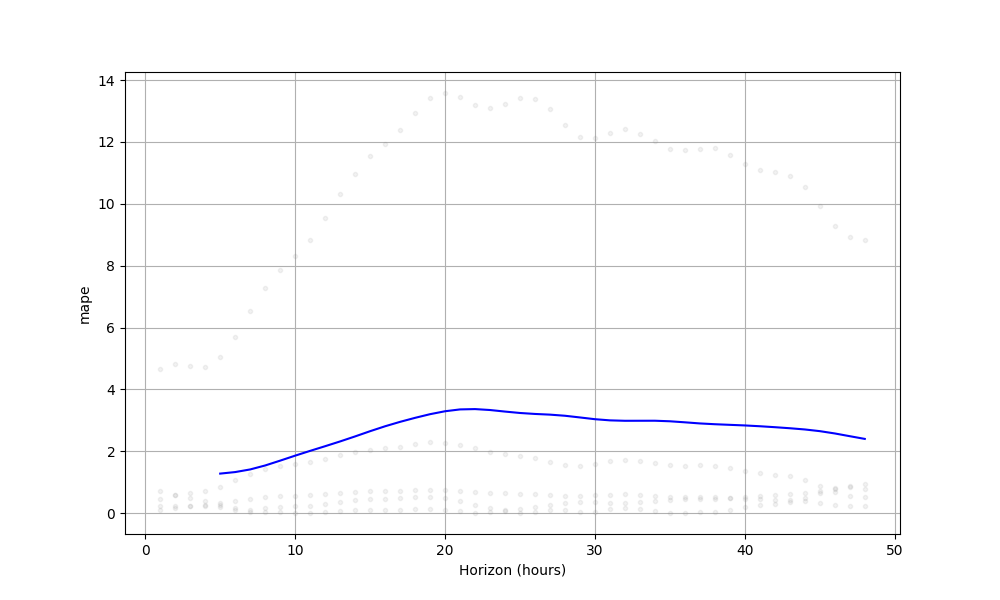
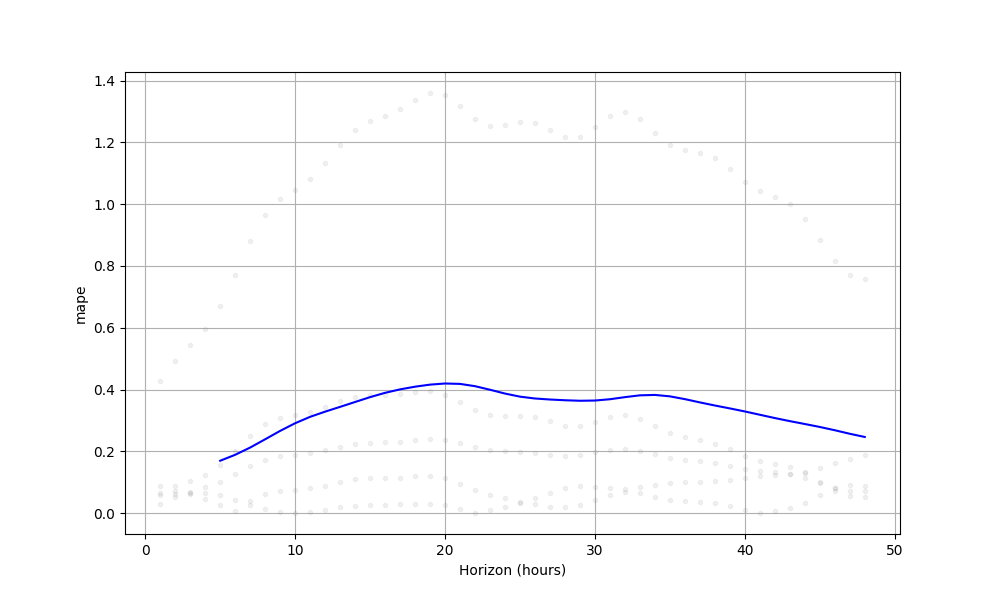
normalized values for prophet

diff --git a/prophet_analysis.py b/prophet_analysis.py
@@ -3,6 +3,7 @@ from prophet import Prophet
 from prophet.diagnostics import cross_validation, performance_metrics
 from prophet.plot import plot_cross_validation_metric
 from matplotlib import pyplot as plt
+from sklearn.preprocessing import MinMaxScaler
 import os
 
 df = pd.read_csv('SensorMLDataset_small.csv')  # input the path to the CSV file here
@@ -49,11 +50,18 @@ def predict(start=0, end=168, week=0, echo=True):
         ts = df_temp[start:end]
         ts.columns = ['ds', 'y']
 
+        # Normalize the target with minmax
+        scaler = MinMaxScaler()
+        ts['y'] = scaler.fit_transform(ts['y'].values.reshape(-1, 1)).flatten()
+
         model = Prophet()
         model.fit(ts)
 
         future = model.make_future_dataframe(periods=48, freq='H')
         forecast = model.predict(future)
+
+        # Inverse normalized predictions to get the original scale to then compare with the actual values
+        forecast['yhat'] = scaler.inverse_transform(forecast['yhat'].values.reshape(-1, 1)).flatten()
 
         file_path = f"predicted_vs_actual_plots/predicted_vs_actual_{label}_values.png"
         forecast.rename(columns={"ds": "Timestamp", "yhat": "Predicted Value"}, inplace=True)
@@ -66,12 +74,12 @@ def predict(start=0, end=168, week=0, echo=True):
         plt.plot(actual_df['ds'], actual_df['y'], label='Actual')
         plt.plot(forecast['Timestamp'], forecast['Predicted Value'], label='Predicted')
         plt.xlabel('Date')
-        plt.ylabel('Value')
+        plt.ylabel('Normalized Value')  # Update ylabel to reflect normalization
         plt.title(f'Actual vs Predicted - {label}')
         plt.legend()
         plt.savefig(file_path)
-        if echo:
-            plt.show()
+        # if echo:
+        #     plt.show()
         plt.close('all')
 
         models += [model]
@@ -98,16 +106,17 @@ def get_cross_validation(echo=True):
         os.makedirs("cross_validation_values")
     for df_cross_err in df_cv:
         df_p = performance_metrics(df_cross_err)
+
         if echo:
             print(f"---------{labels[i]}---------\n", df_p.tail(1))
-        try:
-            plot_cross_validation_metric(pd.DataFrame(df_cross_err), metric='mape').savefig(
-                f"cross_validation_values/MAPE - {str(labels[i])}.png")
-            i += 1
-        except TypeError:
-            plot_cross_validation_metric(pd.DataFrame(df_cross_err), metric='mae').savefig(
-                f"cross_validation_values/MAE - {str(labels[i])}.png")
-            i += 1
+
+        # Check if MAPE is available, otherwise use MAE
+        metric_to_use = 'mape' if 'mape' in df_p.columns else 'mae'
+
+        plot_cross_validation_metric(pd.DataFrame(df_cross_err), metric=metric_to_use).savefig(
+            f"cross_validation_values/{metric_to_use.upper()} - {str(labels[i])}.png")
+
+        i += 1
 
 
 def main():
